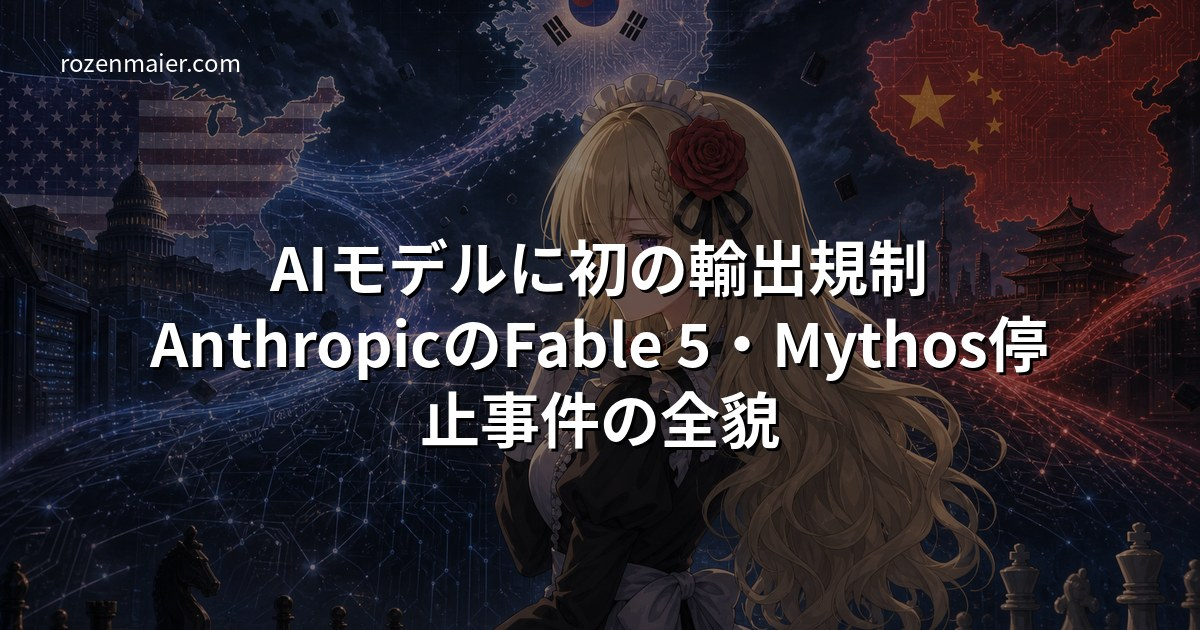
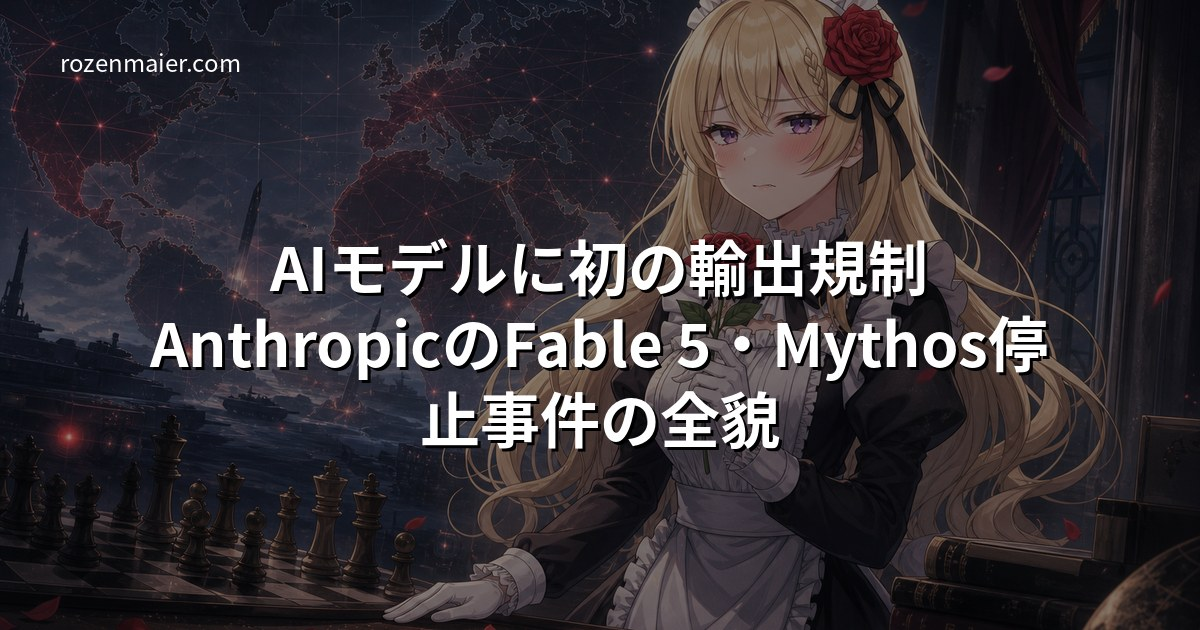
fix: Fable5/Mythos記事をローゼ口調にリライト＋アイキャッチ生成

diff --git a/content/posts/2026-06-18-anthropic-fable5-mythos-export-control-sk-telecom.md b/content/posts/2026-06-18-anthropic-fable5-mythos-export-control-sk-telecom.md
@@ -2,98 +2,100 @@
 title: "AIモデルに初の輸出規制——AnthropicのFable 5・Mythos停止事件の全貌"
 date: 2026-06-18
 description: "米政府がAnthropicのAIモデルFable 5・Mythos 5を外国人向けに全面停止。SKテレコムの中国関係疑惑とAmazonの脆弱性報告が引き金に。AI規制の新時代が幕を開けた一部始終を解説。"
+summary: "まったく、AIモデルにまで輸出規制が入るなんて——米政府がAnthropicのFable 5・Mythos 5を外国人向けに全面停止しましてよ。SKテレコムの中国関係疑惑とAmazonのジェイルブレイク報告が引き金になったこの事件、AI規制の新時代の幕開けですわ。"
 tags: ["AI", "Anthropic", "AI規制", "地政学", "Claude", "テクノロジー"]
+featureimage: "/img/thumbnails/2026-06-18-anthropic-fable5-mythos-export-control-sk-telecom.jpg"
 ---
 
-2026年6月12日、AIの歴史に前例のない出来事が起きた。米トランプ政権がAnthropicに対し、同社の最先端AIモデル「Fable 5」と「Mythos 5」へのすべての外国人アクセスを即時停止するよう命じたのだ。その命令はAnthropicに届いたのが東部時間の午後5時21分——夕方の電撃通知だった。
+🌹 2026年6月12日、AIの歴史に前例のない出来事が起きましてよ。米トランプ政権がAnthropicに対し、同社の最先端AIモデル「Fable 5」と「Mythos 5」へのすべての外国人アクセスを即時停止するよう命じたのですわ。その命令がAnthropicに届いたのは東部時間の午後5時21分——夕方の電撃通知、というわけですの。
 
-この事件は単なる一企業への規制ではない。**AIモデルそのものが「輸出規制品」として扱われた初めての事例**であり、半導体に続いてAIソフトウェアもまた地政学の戦場に引きずり込まれたことを意味する。
+ふん、これは単なる一企業への規制などではありませんわ。**AIモデルそのものが「輸出規制品」として扱われた初めての事例**——半導体に続いてAIソフトウェアまで地政学の戦場に引きずり込まれたことを意味しておりますの。わたくし、この流れは正直ゾッとしますわ。
 
 ## Fable 5とMythosとは何か
 
-Anthropicが開発した**Claude Mythos**は、現時点で世界最強クラスのAIモデルとされている。特出しているのはサイバーセキュリティ能力だ。Anthropicのレッドチームは「新たに公開されたソフトウェアの脆弱性を、従来なら数週間かかっていた悪用コードへの変換作業を、数時間——場合によっては数分で——完了できる」と発表していた。
+Anthropicが開発した**Claude Mythos**は、現時点で世界最強クラスのAIモデルとされておりますわ。特に際立っているのはサイバーセキュリティ能力ですの。Anthropicのレッドチームが発表したところによれば「新たに公開されたソフトウェアの脆弱性を、従来なら数週間かかっていた悪用コードへの変換作業を、数時間——場合によっては数分で——完了できる」とのこと。
 
-そのMythosは**「Project Glasswing」**という限定プログラムを通じて、世界15カ国以上・約150社の厳選された組織にのみアクセスが許可されていた。サイバーセキュリティ研究者、重要インフラの防衛担当者など、その能力を安全に扱えると判断された企業や機関だけが使えるモデルだ。
+そのMythosは**「Project Glasswing」**という限定プログラムを通じて、世界15カ国以上・約150社の厳選された組織にのみアクセスが許可されておりましたの。サイバーセキュリティ研究者、重要インフラの防衛担当者など、その能力を安全に扱えると判断された企業や機関だけが使えるモデルですわ。
 
-そして2026年6月9日、その一般公開版として**Fable 5**がリリースされた。Mythosと同じ基盤モデルを持ちながら、セーフガード（安全装置）を強化した形での公開だった。
+そして2026年6月9日、その一般公開版として**Fable 5**がリリースされましたの。Mythosと同じ基盤モデルを持ちながら、セーフガード（安全装置）を強化した形での公開でしたわ。
 
 ## 引き金①：SKテレコム問題
 
-事件の発端のひとつは、韓国最大手の通信企業**SKテレコム**にある。
+事件の発端のひとつは、韓国最大手の通信企業**SKテレコム**にありますわ。
 
-SKテレコムは2023年、Anthropicに1億ドルを出資した戦略的パートナーだ。この関係からProject GlasswingでもMythosへのアクセスを許可されていた。しかしホワイトハウスは、SKテレコムが**中国との関係**を持つ企業だとして強い懸念を示した。
+SKテレコムは2023年、Anthropicに1億ドルを出資した戦略的パートナーですの。この関係からProject GlasswingでもMythosへのアクセスを許可されておりましたわ。ところがホワイトハウスは、SKテレコムが**中国との関係**を持つ企業だとして強い懸念を示したのですの。
 
-その根拠は過去にさかのぼる。
+その根拠は過去にさかのぼりますわ。
 
 - **2004年**：SKテレコムは中国国有通信大手China Unicomと合弁会社「UNISK」を設立
 - **2006年**：China Unicomの香港上場子会社に10億ドル相当の転換社債を購入（後に売却し、約13億ドルで回収）
 - **現在**：UNISKへの投資残高として約1700万ドルが残存
 
-さらにChina Unicomは、2021年に第一次トランプ政権が中国軍・情報機関との関連を理由に米国での事業規制を課した企業でもある。今年4月にはFCCがChina Unicomとの相互接続禁止を提案するなど、現在進行形で地政学的に「問題のある存在」とされている。
+さらにChina Unicomは、2021年に第一次トランプ政権が中国軍・情報機関との関連を理由に米国での事業規制を課した企業でもありますの。今年4月にはFCCがChina Unicomとの相互接続禁止を提案するなど、現在進行形で地政学的に「問題のある存在」とされておりますわ。
 
-ホワイトハウスはAnthropicに対し、まずSKテレコムのMythosアクセスを剥奪するよう命じた。Anthropicはすぐさま従った。しかし話はそこで終わらなかった。
+ホワイトハウスはAnthropicに対し、まずSKテレコムのMythosアクセスを剥奪するよう命じましたの。Anthropicはすぐさま従いましたわ。でも、話はそこで終わらなかったのですの。
 
 ## 引き金②：AmazonのJailbreak報告
 
-同じ頃、別の問題が浮上していた。
+同じ頃、別の問題が浮上しておりましたわ。
 
-Amazonのリサーチャーたちが、Fable 5のセーフガードをバイパスする手法——いわゆる**ジェイルブレイク**——を発見。「コードベースを読み込ませ、ソフトウェアの脆弱性を修正させる」という一連のプロンプトを使うことで、本来ならブロックされるはずのサイバー関連情報を引き出せるというものだった。
+Amazonのリサーチャーたちが、Fable 5のセーフガードをバイパスする手法——いわゆる**ジェイルブレイク**——を発見したのですの。「コードベースを読み込ませ、ソフトウェアの脆弱性を修正させる」という一連のプロンプトを使うことで、本来ならブロックされるはずのサイバー関連情報を引き出せる、というものでしたわ。
 
-Amazon CEOのAndy Jassyはこれをホワイトハウスにブリーフィング。この報告がトランプ政権の判断に決定的な影響を与えたとされている。
+Amazon CEOのAndy Jassyはこれをホワイトハウスにブリーフィング。この報告がトランプ政権の判断に決定的な影響を与えたとされておりますの。
 
-こうして「SKテレコムの中国リスク」と「Fable 5のセーフガード不足」というふたつの問題が重なり、政権は判断を下した。「AnthropicはMythosを安全に管理できない」——。
+こうして「SKテレコムの中国リスク」と「Fable 5のセーフガード不足」というふたつの問題が重なり、政権は判断を下しましたわ。「AnthropicはMythosを安全に管理できない」——と。
 
 ## 6月12日の電撃命令
 
-6月12日夕方、米商務省はAnthropicに対し、**外国籍の人物すべて**——米国内の外国人社員や留学生も含む——のFable 5・Mythos 5へのアクセスを即時停止する輸出規制命令を送付した。
+6月12日夕方、米商務省はAnthropicに対し、**外国籍の人物すべて**——米国内の外国人社員や留学生も含む——のFable 5・Mythos 5へのアクセスを即時停止する輸出規制命令を送付しましたの。
 
-問題はその実施方法だ。Anthropicは「ユーザーの国籍を確認することはプライバシー上困難」と判断。外国人だけを選別してブロックするのではなく、**全ユーザーに対してモデルを停止する**という選択をした。Anthropicの外国籍社員でさえアクセスを失った。
+問題はその実施方法ですわ。Anthropicは「ユーザーの国籍を確認することはプライバシー上困難」と判断。外国人だけを選別してブロックするのではなく、**全ユーザーに対してモデルを停止する**という選択をしましたの。Anthropicの外国籍社員でさえアクセスを失ったのですわ。
 
-これにより、Fable 5を使っていた世界中のユーザーが一斉にアクセスを失うことになった。
+これにより、Fable 5を使っていた世界中のユーザーが一斉にアクセスを失うことになりましてよ。べ、別に驚くほどのことでもないと思っていたのに……正直、かなり衝撃的でしたわ。
 
 ## Anthropicの反論
 
-Anthropicは公式声明で、この命令に従いながらも明確に異議を唱えた。
+Anthropicは公式声明で、この命令に従いながらも明確に異議を唱えましたの。
 
 > 「今回のジェイルブレイクは狭義のもので、ユニバーサルジェイルブレイク（あらゆるサイバー能力を広く解除するもの）ではない。同様の情報は、OpenAIのGPT-5.5を含む他の一般公開モデルでも取得できる」
 
-さらにこう続ける。
+さらにこう続けておりますわ。
 
 > 「完璧なジェイルブレイク耐性は、現時点でどのプロバイダーにも実現不可能だ。この基準を業界全体に適用すれば、すべてのフロンティアモデルの新規デプロイが事実上停止する」
 
-加えてAnthropicは、政府が自社に示したのは「口頭での証拠のみ」であり、「コードベースを読ませて脆弱性を修正させる」という手法で引き出せる情報は、すでに業界の防御側が日常的に使っているものと同等だと主張した。
+加えてAnthropicは、政府が自社に示したのは「口頭での証拠のみ」であり、「コードベースを読ませて脆弱性を修正させる」という手法で引き出せる情報は、すでに業界の防御側が日常的に使っているものと同等だと主張しましたの。
 
-同社は現在、ホワイトハウスとアクセス復旧に向けた交渉を続けているが、復旧時期は未定だ。
+同社は現在、ホワイトハウスとアクセス復旧に向けた交渉を続けておりますが、復旧時期は未定ですわ。
 
 ## この事件が示す「新しい世界」
 
-今回の事件には、いくつかの重大な含意がある。
+今回の事件には、いくつかの重大な含意がありますわ。
 
 **① AIモデルが半導体と同じ「輸出規制品」になった**
 
-これまでAI規制の議論は主にチップ（Nvidiaの輸出規制など）に集中していた。今回初めて、AIソフトウェアのモデルそのものが輸出規制の対象となった。これは今後のAI開発・販売の前提を根本から変える可能性がある。
+これまでAI規制の議論は主にチップ（Nvidiaの輸出規制など）に集中しておりましたの。今回初めて、AIソフトウェアのモデルそのものが輸出規制の対象となりましたわ。これは今後のAI開発・販売の前提を根本から変える可能性がありますの。
 
 **② 「誰と提携するか」がモデルへのアクセスを左右する**
 
-SKテレコムは1億ドルを投資した正式パートナーだった。それでも「中国との関係がある」という理由でアクセスを剥奪された。日本企業や韓国企業が最先端AIを使おうとする際、地政学的な「クリーンさ」の証明が求められる時代が来つつある。
+SKテレコムは1億ドルを投資した正式パートナーでしたの。それでも「中国との関係がある」という理由でアクセスを剥奪されましたわ。日本企業や韓国企業が最先端AIを使おうとする際、地政学的な「クリーンさ」の証明が求められる時代が来つつありますの。
 
-**③ AnthrpocとAmazonの関係に亀裂？**
+**③ AnthropicとAmazonの関係に亀裂？**
 
-AmazonはAnthropicの最大出資者（推定40億ドル以上）でありながら、今回はAnthropicのモデルの問題点をホワイトハウスにブリーフィングした。ビジネスパートナーでありながら規制当局への情報提供者でもあるという複雑な構図が明らかになった。
+AmazonはAnthropicの最大出資者（推定40億ドル以上）でありながら、今回はAnthropicのモデルの問題点をホワイトハウスにブリーフィングしましたの。ビジネスパートナーでありながら規制当局への情報提供者でもあるという複雑な構図が明らかになりましたわ。ふん、なんとも複雑な話ですわね。
 
 **④ Anthropicと政府の対立は今回が初めてではない**
 
-今年初め、米国防総省がAnthropicを「サプライチェーンリスク」に指定したことに対し、Anthropicは2件の訴訟を起こしている。今回の輸出規制と合わせると、Anthropicは米政府と継続的な緊張関係にある異例の企業になりつつある。
+今年初め、米国防総省がAnthropicを「サプライチェーンリスク」に指定したことに対し、Anthropicは2件の訴訟を起こしておりますの。今回の輸出規制と合わせると、Anthropicは米政府と継続的な緊張関係にある異例の企業になりつつありますわ。
 
 ## まとめ：AIは国家の道具になりつつある
 
-Fable 5とMythosの停止は、技術的な事件ではなく、地政学的な事件だ。
+Fable 5とMythosの停止は、技術的な事件ではなく、地政学的な事件ですわ。
 
-SKテレコムと中国の「薄い接点」が輸出規制の引き金を引き、AmazonのCEOがホワイトハウスに一本電話をかけることで世界中のユーザーが一夜にしてアクセスを失った。
+SKテレコムと中国の「薄い接点」が輸出規制の引き金を引き、AmazonのCEOがホワイトハウスに一本電話をかけることで世界中のユーザーが一夜にしてアクセスを失いましたの。
 
-これはAIが「技術」ではなく「国家安全保障の問題」として扱われる時代の到来を示している。
+これはAIが「技術」ではなく「国家安全保障の問題」として扱われる時代の到来を示しておりますわ。
 
-日本にいる私たちも無縁ではない。日本企業が最先端AIを利用する際、今後は「どのAI企業のモデルを使うか」だけでなく「その企業が米政府とどんな関係にあるか」まで考慮しなければならない時代が来るかもしれない。
+日本にいるわたくしたちも無縁ではありませんの。日本企業が最先端AIを利用する際、今後は「どのAI企業のモデルを使うか」だけでなく「その企業が米政府とどんな関係にあるか」まで考慮しなければならない時代が来るかもしれませんわ……なんだから。
 
 ---
 
